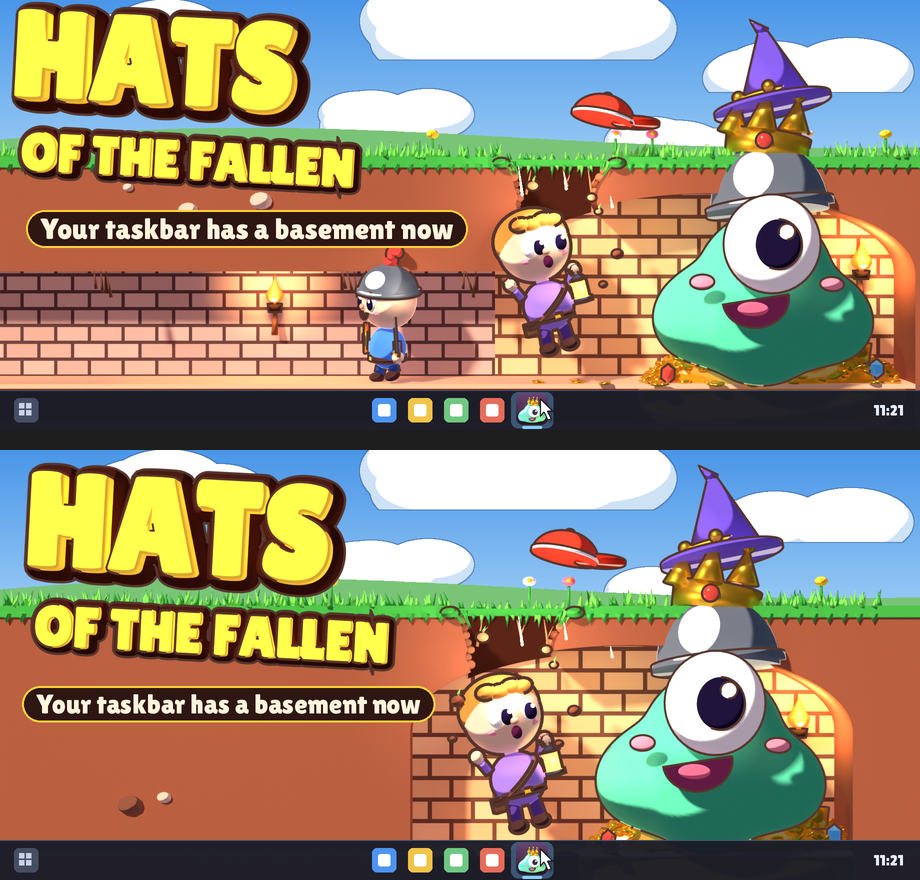
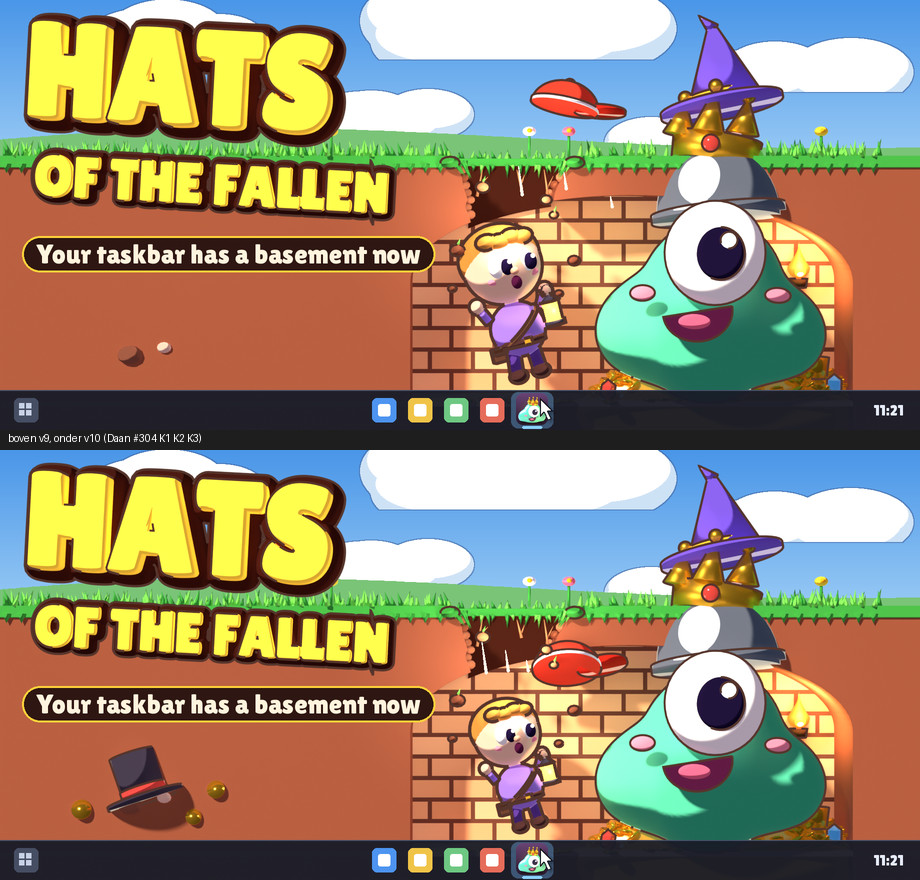
Hats #30: header v10 met de kan-punten van Daan #304 (held kleiner, pet bij zijn hoofd, hoge hoed en munten in de lege aarde); blinde test v9 en v10
Claude-Session: https://claude.ai/code/session_01RMWUykJSatXgrmx3yC6wt4

diff --git a/ontwerp/steam/capsule-v2/header_v2.py b/ontwerp/steam/capsule-v2/header_v2.py
@@ -355,8 +355,20 @@ for o in list(sc.objects):
 for o in list(HV.children_recursive):
     if o.name.startswith("hoed"):
         o.hide_render = True
-hoeden.bouw(3, plek=(E("PETX", "3.1"), 0.0, E("PETZ", "5.75")), schaal=E("PETS", "1.6"), kantel=E("PETK", "15"), draai=E("PETD", "-30"))   # v5: koepel boven, klep opzij (v4 las als rode lippen)
+PET = hoeden.bouw(3, plek=(E("PETX", "3.1"), 0.0, E("PETZ", "5.75")), schaal=E("PETS", "1.6"), kantel=E("PETK", "15"), draai=E("PETD", "-30"))
+if os.environ.get("HV2_V10", "0") == "1":   # v10: pet laag naast zijn hoofd, iets naar de camera gekanteld zodat de koepel blijft lezen
+    PET.rotation_euler.x = math.radians(E("PETVOOR", "30"))   # v5: koepel boven, klep opzij (v4 las als rode lippen)
 # (bewegingsstreepjes weggelaten: op 2x lazen ze als stokjes door de held)
+# v10 (Daan #304 K3): de lege aarde linksonder krijgt een hoed van een eerder gevallen held en een paar munten,
+# half in de grond, zoals de lagen in het spel. Held kleiner (K1) en pet dichter bij zijn hoofd (K2) gaan via HVS/PETX/PETZ.
+if os.environ.get("HV2_V10", "0") == "1":
+    hoeden.bouw(int(E("BHNR", "0")), plek=(E("BHX", "-4.3"), -0.05, E("BHZ", "1.05")), schaal=E("BHS", "1.25"),
+                kantel=E("BHK", "-28"), draai=E("BHD", "20"))
+    for (mx, mz, mr, mk) in [(-5.6, 0.85, 0.2, 12), (-2.9, 1.25, 0.18, -18), (-3.35, 0.7, 0.16, 25)]:
+        # plat naar de camera (as langs y), iets scheef: lezen als munt, niet als streepje
+        bpy.ops.mesh.primitive_cylinder_add(vertices=24, radius=mr, depth=0.06, location=(mx + E("BHX", "-4.3") + 4.3, -0.04, mz),
+                                            rotation=(math.radians(90 - 20), math.radians(mk), 0))
+        mo = bpy.context.object; mo.name = "munt"; bpy.ops.object.shade_smooth(); kies(mo, GOUD)
 # 2. in de gang loopt een ridder nietsvermoedend naar de kamer
 if not V9: held.bouw("ridder", "stap2", plek=(E("RX", "-1.6"), 0.35, 0.0), draai=60, schaal=E("RS", "1.55"), gloed=40)
 

diff --git a/ontwerp/steam/capsule-v2/LEESMIJ.md b/ontwerp/steam/capsule-v2/LEESMIJ.md
@@ -88,3 +88,11 @@ Na de blinde test van 17:01 (v7 en v8 plek 3,0, "cheap and chaotic") eerst het "
 - Camera dichterbij (`HV2_CAMB` 18,5 breed in plaats van 20, `CAMX` 2, `CAMZ` 3,75); titel groter (`TH` 2,75 op dichtere camera); gat, kluitjes, held en pet schuiven mee (`SX0`, `HVX`, `PETX`).
 - Maken: als v8 plus `HV2_V9=1 HV2_CAMB=18.5 HV2_CAMX=2.0 HV2_CAMZ=3.75 HV2_GS=2.15 HV2_GX=7.0 HV2_SX0=2.15 HV2_SX1=3.95 HV2_HVX=3.4 HV2_HVZ=0.5 HV2_PETX=4.1 HV2_PETZ=5.9 HV2_TX=-6.0 HV2_TZ=5.05 HV2_TH=2.75 HV2_TO=1.18`, dan `V7=1 OT_Y=236 OT_X=22 OT_MAAT=27 python3 samenstellen.py r.png header-v9-920x430.png`.
 - Bekeken met Read op 920, 460 en 2x (`rechts-v9-2x.png`); voor (v8) en na (v9) in `voor-na.png`.
+
+## Ronde 10 (27 nov ±21:15 NL): de drie kan-punten van Daan (#304)
+Schakelaar `HV2_V10=1` bovenop v9 (standaard uit, v9 blijft te maken):
+- **K1 held kleiner** (`HVS` 1,55 in plaats van 1,85): Gloop is nu duidelijk het ene grote figuur.
+- **K2 pet bij zijn hoofd** (`PETX` 4,15, `PETZ` 3,65, `PETVOOR` -25): de pet vliegt net rechts boven zijn hoofd, iets naar de camera gekanteld zodat koepel, witte band en klep blijven lezen (gekozen uit drie standen). Valstreepjes boven zijn hoofd (`STREEP`).
+- **K3 lege aarde linksonder:** een hoge hoed van een eerder gevallen held en drie munten in de grond (`BHNR` 7; helm, veermuts en koksmuts geprobeerd, de hoge hoed leest op 460 het snelst als hoed).
+- Maken: als v9 plus `HV2_V10=1 HV2_HVS=1.55 HV2_PETX=4.15 HV2_PETZ=3.65 HV2_PETVOOR=-25 HV2_PETK=15 HV2_BHNR=7 HV2_BHK=-20 HV2_BHS=1.4`, dan `V7=1 OT_Y=236 OT_X=22 OT_MAAT=27 STREEP=486:192:32,508:200:22,528:210:12 python3 samenstellen.py r.png header-v10-920x430.png`.
+- Bekeken met Read op 920, 460 en 2x (`rechts-v10-2x.png`); v9 boven v10 in `voor-na.png`.
